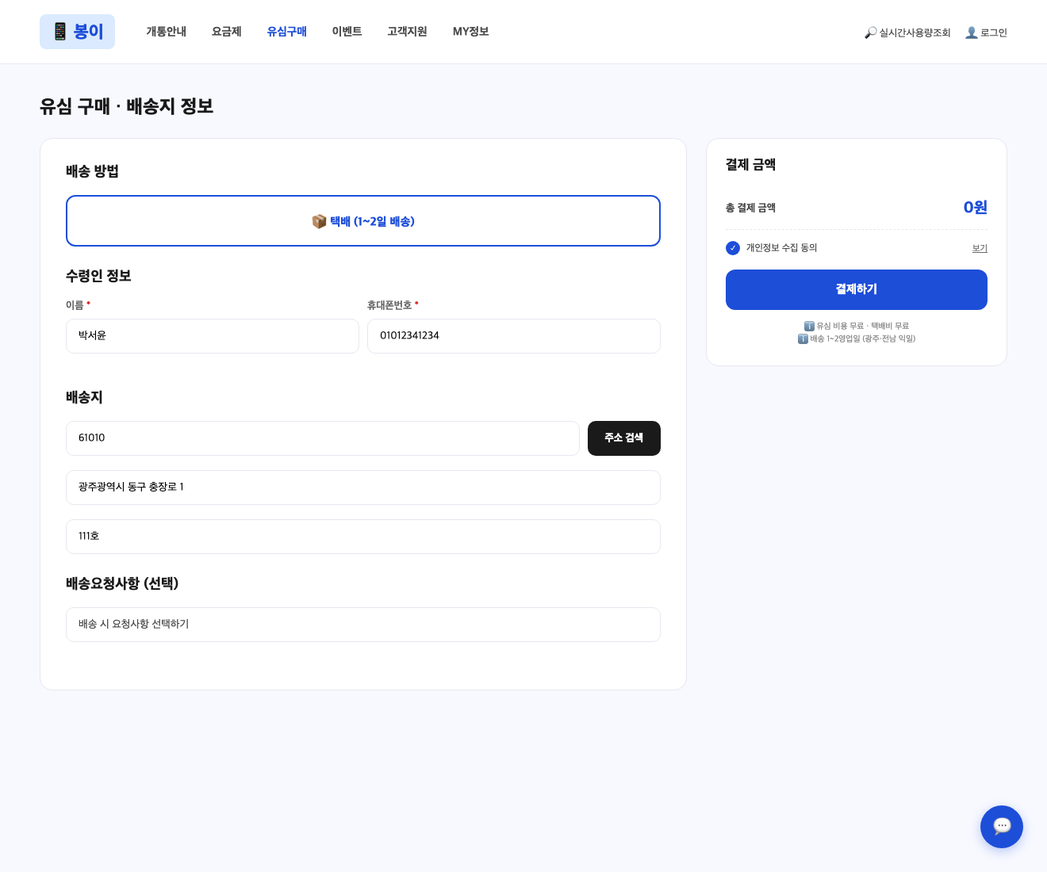
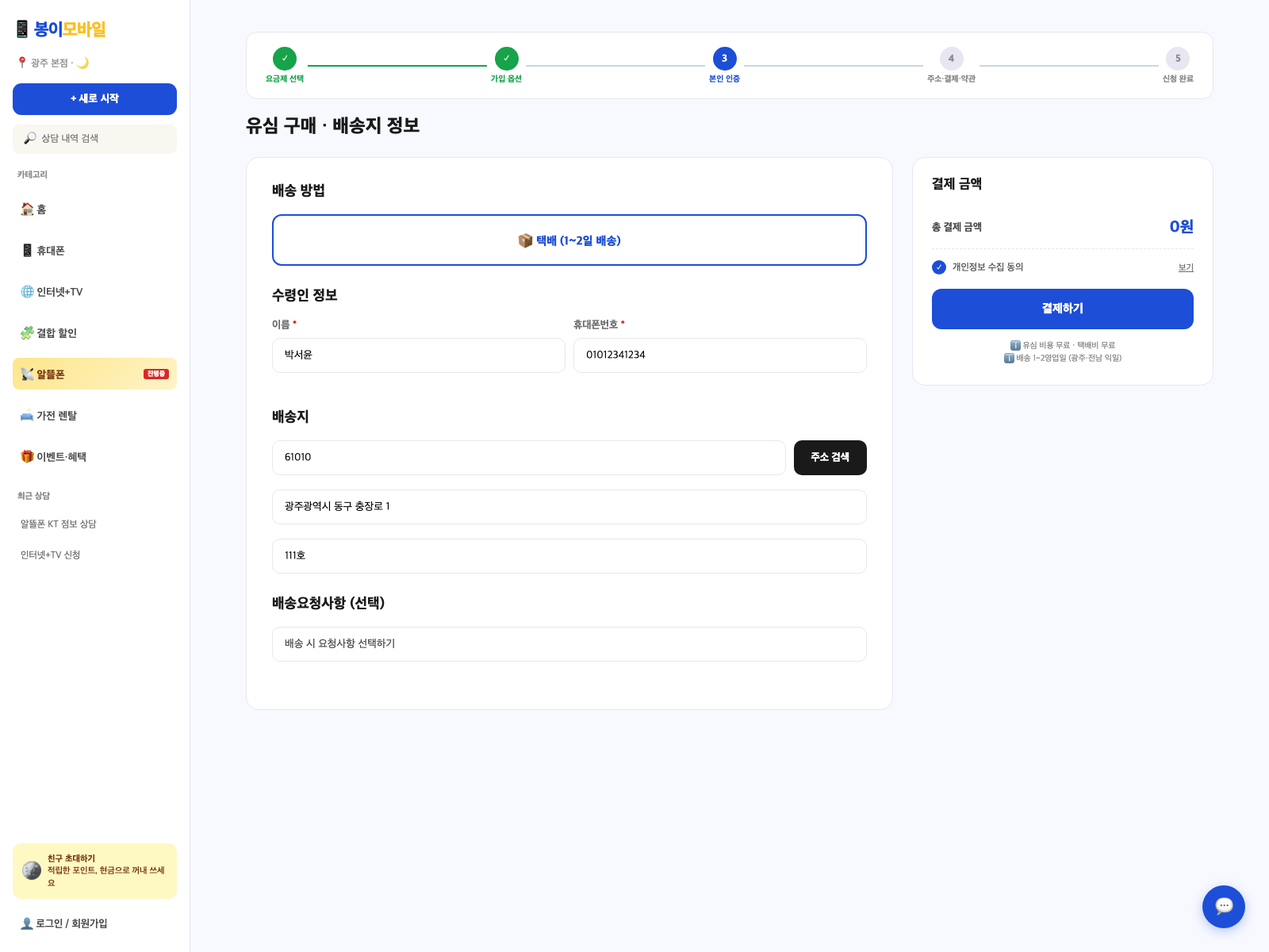
docs(mvno): wireframe 5개 — Allio 좌측 nav + 5-step progress + 신분증 진위확인 필수
사용자: '진행해봐' + '신분증 진위확인은 필수일것같은데'

변경:
- 5개 wireframe 모두 좌측 240px Allio 카테고리 nav 사이드바 추가
  (휴대폰·인터넷+TV·결합 할인·알뜰폰[NEW]·가전 렌탈·이벤트)
  + + 새로 시작 버튼 + 검색 + 최근 상담 + 친구 초대 + 로그인
- 5개 wireframe 모두 상단 5-step progress bar (요금제→가입 옵션→본인 인증→주소·결제·약관→신청 완료)
  - 각 step별 active/done/wait 색상 구분 (파랑/녹색/회색)
- wf-customer-04 (본인 인증) 신분증 진위확인 필드 추가
  - 신분증 종류 select (주민등록증·운전면허증·외국인등록증)
  - 발급일자 input
  - 행안부 진위 조회 (실시간) 안내

골격: Allio (좌측 nav + progress) · 세부 입력: 아정당 (chip·휴대폰 SMS) · 신분증 진위: 모빙 패턴

diff --git a/docs/handoff/mvno-2026-06-06/wf-customer-04-complete.html b/docs/handoff/mvno-2026-06-06/wf-customer-04-complete.html
@@ -3,7 +3,7 @@
 <link href="https://fonts.googleapis.com/css2?family=Pretendard:wght@400;500;600;700;800;900&display=swap" rel="stylesheet">
 <style>
 *{box-sizing:border-box;margin:0;padding:0}
-body{font-family:'Pretendard',sans-serif;background:#f8f9ff;color:#1a1a1a;min-height:100vh}
+body{font-family:'Pretendard',sans-serif;background:#f8f9ff;color:#1a1a1a;min-height:100vh;padding-left:240px}
 .header{background:#fff;border-bottom:1px solid #e8e6f0;padding:18px 0}
 .header-inner{max-width:1280px;margin:0 auto;padding:0 30px;display:flex;align-items:center;gap:40px}
 .logo{font-size:22px;font-weight:900;color:#1d4ed8;background:#dbeafe;padding:7px 14px;border-radius:8px}
@@ -56,25 +56,33 @@ h1{font-size:24px;font-weight:900;margin-bottom:24px}
 .progress-list .pl-row.wait{color:#8a8a8a}
 .float-chat{position:fixed;right:30px;bottom:30px;width:54px;height:54px;background:#1d4ed8;border-radius:50%;display:flex;align-items:center;justify-content:center;font-size:22px;cursor:pointer;color:#fff;box-shadow:0 4px 14px rgba(29,78,216,.3)}
 </style></head><body>
-<div class="header">
-  <div class="header-inner">
-    <div class="logo">📱 봉이</div>
-    <div class="menu">
-      <a>개통안내</a>
-      <a class="active">요금제</a>
-      <a>유심구매</a>
-      <a>이벤트</a>
-      <a>고객지원</a>
-      <a>MY정보</a>
-    </div>
-    <div class="header-right">
-      <a>🔎 실시간사용량조회</a>
-      <a>👤 로그인</a>
-    </div>
+<aside class="nav-aside" style="position:fixed;left:0;top:0;width:240px;height:100vh;background:#fff;border-right:1px solid #e8e6f0;padding:18px 16px;display:flex;flex-direction:column;gap:12px;z-index:100;overflow-y:auto;font-family:'Pretendard',sans-serif">
+  <div style="font-size:22px;font-weight:900;color:#1d4ed8;letter-spacing:-1px;padding:4px 0">📱 봉이<span style="color:#fbbf24">모바일</span></div>
+  <div style="font-size:12.5px;color:#8a8a8a;padding:0 4px;margin-bottom:4px">📍 광주 본점 · 🌙</div>
+  <button style="background:#1d4ed8;color:#fff;border:none;padding:12px;border-radius:11px;font-size:13.5px;font-weight:800;cursor:pointer;font-family:inherit">+ 새로 시작</button>
+  <input placeholder="🔎  상담 내역 검색" style="background:#f8f7f0;border:none;padding:11px 14px;border-radius:9px;font-size:12.5px;color:#8a8a8a;font-family:inherit">
+  <div style="font-size:11px;font-weight:700;color:#8a8a8a;margin:8px 0 4px;padding:0 6px;text-transform:uppercase">카테고리</div>
+  <a style="display:flex;align-items:center;gap:10px;padding:9px 10px;border-radius:8px;font-size:13.5px;color:#4a4a4a;font-weight:600;text-decoration:none;cursor:pointer">🏠  홈</a>
+  <a style="display:flex;align-items:center;gap:10px;padding:9px 10px;border-radius:8px;font-size:13.5px;color:#4a4a4a;font-weight:600;text-decoration:none;cursor:pointer">📱  휴대폰</a>
+  <a style="display:flex;align-items:center;gap:10px;padding:9px 10px;border-radius:8px;font-size:13.5px;color:#4a4a4a;font-weight:600;text-decoration:none;cursor:pointer">🌐  인터넷+TV</a>
+  <a style="display:flex;align-items:center;gap:10px;padding:9px 10px;border-radius:8px;font-size:13.5px;color:#4a4a4a;font-weight:600;text-decoration:none;cursor:pointer">🧩  결합 할인</a>
+  <a style="display:flex;align-items:center;gap:10px;padding:9px 10px;border-radius:8px;font-size:13.5px;font-weight:800;text-decoration:none;cursor:pointer;background:linear-gradient(135deg,#fde68a,#fef3c7);color:#78350f">📡  알뜰폰 <span style="background:#dc2626;color:#fff;font-size:8.5px;padding:1px 5px;border-radius:3px;font-weight:800;margin-left:auto">진행중</span></a>
+  <a style="display:flex;align-items:center;gap:10px;padding:9px 10px;border-radius:8px;font-size:13.5px;color:#4a4a4a;font-weight:600;text-decoration:none;cursor:pointer">🛋  가전 렌탈</a>
+  <a style="display:flex;align-items:center;gap:10px;padding:9px 10px;border-radius:8px;font-size:13.5px;color:#4a4a4a;font-weight:600;text-decoration:none;cursor:pointer">🎁  이벤트·혜택</a>
+  <div style="font-size:11px;font-weight:700;color:#8a8a8a;margin:12px 0 4px;padding:0 6px;text-transform:uppercase">최근 상담</div>
+  <div style="font-size:12px;color:#6a6a6a;padding:6px 10px;border-radius:6px">알뜰폰 KT 점보 상담</div>
+  <div style="font-size:12px;color:#6a6a6a;padding:6px 10px;border-radius:6px">인터넷+TV 신청</div>
+  <div style="margin-top:auto;background:#fef9c3;border-radius:10px;padding:12px;display:flex;gap:8px;align-items:center;cursor:pointer">
+    <div style="font-size:24px">🪙</div>
+    <div style="font-size:11px;font-weight:600;color:#78350f;line-height:1.4"><b style="color:#78350f">친구 초대하기</b><br>적립한 포인트, 현금으로 꺼내 쓰세요</div>
   </div>
-</div>
+  <div style="display:flex;align-items:center;gap:8px;padding:8px 10px;font-size:13px;color:#4a4a4a;font-weight:600;cursor:pointer">👤  로그인 / 회원가입</div>
+</aside>
+
+
 
 <div class="wrap">
+  <div style="display:flex;align-items:center;justify-content:space-between;padding:18px 24px;background:#fff;border:1.5px solid #e8e6f0;border-radius:14px;margin-bottom:20px;font-family:'Pretendard',sans-serif"><div style="display:flex;flex-direction:column;align-items:center;gap:5px"><div style="width:30px;height:30px;border-radius:50%;background:#16a34a;color:#fff;display:flex;align-items:center;justify-content:center;font-size:12.5px;font-weight:900">✓</div><div style="font-size:10.5px;color:#16a34a;font-weight:700;text-align:center;white-space:nowrap">요금제 선택</div></div><div style="flex:1;height:2px;background:#16a34a;margin:0 5px"></div><div style="display:flex;flex-direction:column;align-items:center;gap:5px"><div style="width:30px;height:30px;border-radius:50%;background:#16a34a;color:#fff;display:flex;align-items:center;justify-content:center;font-size:12.5px;font-weight:900">✓</div><div style="font-size:10.5px;color:#16a34a;font-weight:700;text-align:center;white-space:nowrap">가입 옵션</div></div><div style="flex:1;height:2px;background:#16a34a;margin:0 5px"></div><div style="display:flex;flex-direction:column;align-items:center;gap:5px"><div style="width:30px;height:30px;border-radius:50%;background:#16a34a;color:#fff;display:flex;align-items:center;justify-content:center;font-size:12.5px;font-weight:900">✓</div><div style="font-size:10.5px;color:#16a34a;font-weight:700;text-align:center;white-space:nowrap">본인 인증</div></div><div style="flex:1;height:2px;background:#cbd5e1;margin:0 5px"></div><div style="display:flex;flex-direction:column;align-items:center;gap:5px"><div style="width:30px;height:30px;border-radius:50%;background:#1d4ed8;color:#fff;display:flex;align-items:center;justify-content:center;font-size:12.5px;font-weight:900">4</div><div style="font-size:10.5px;color:#1d4ed8;font-weight:700;text-align:center;white-space:nowrap">주소·결제·약관</div></div><div style="flex:1;height:2px;background:#cbd5e1;margin:0 5px"></div><div style="display:flex;flex-direction:column;align-items:center;gap:5px"><div style="width:30px;height:30px;border-radius:50%;background:#e8e6f0;color:#8a8a8a;display:flex;align-items:center;justify-content:center;font-size:12.5px;font-weight:900">5</div><div style="font-size:10.5px;color:#8a8a8a;font-weight:700;text-align:center;white-space:nowrap">신청 완료</div></div></div>
   <h1>본인 인증</h1>
 
   <div class="layout">
@@ -100,6 +108,15 @@ h1{font-size:24px;font-weight:900;margin-bottom:24px}
           <div class="dash">−</div>
           <input class="inp" placeholder="●●●●●●●" value="*******" type="password">
         </div>
+      </div>
+
+      <div class="field-row">
+        <div class="lbl">신분증 진위확인 <span class="req">*</span></div>
+        <div style="display:grid;grid-template-columns:1fr 1fr;gap:10px">
+          <select class="inp" style="appearance:none"><option>주민등록증</option><option>운전면허증</option><option>외국인등록증</option></select>
+          <input class="inp" placeholder="발급일자 (YYYY-MM-DD)" value="2020-03-15">
+        </div>
+        <div class="help">⚠ 미성년자 가입 시 법정대리인 신분증 입력 · 행안부 진위 조회 (실시간)</div>
       </div>
 
       <div class="field-row">

diff --git a/docs/handoff/mvno-2026-06-06/wf-customer-03-signup-step.html b/docs/handoff/mvno-2026-06-06/wf-customer-03-signup-step.html
@@ -3,7 +3,7 @@
 <link href="https://fonts.googleapis.com/css2?family=Pretendard:wght@400;500;600;700;800;900&display=swap" rel="stylesheet">
 <style>
 *{box-sizing:border-box;margin:0;padding:0}
-body{font-family:'Pretendard',sans-serif;background:#f8f9ff;color:#1a1a1a;min-height:100vh}
+body{font-family:'Pretendard',sans-serif;background:#f8f9ff;color:#1a1a1a;min-height:100vh;padding-left:240px}
 .header{background:#fff;border-bottom:1px solid #e8e6f0;padding:18px 0}
 .header-inner{max-width:1280px;margin:0 auto;padding:0 30px;display:flex;align-items:center;gap:40px}
 .logo{font-size:22px;font-weight:900;color:#1d4ed8;background:#dbeafe;padding:7px 14px;border-radius:8px}
@@ -42,25 +42,33 @@ h1{font-size:24px;font-weight:900;margin-bottom:24px}
 .cta-pay{background:#1d4ed8;color:#fff;border:none;padding:16px;border-radius:12px;font-size:15px;font-weight:800;cursor:pointer;font-family:inherit;width:100%}
 .float-chat{position:fixed;right:30px;bottom:30px;width:54px;height:54px;background:#1d4ed8;border-radius:50%;display:flex;align-items:center;justify-content:center;font-size:22px;cursor:pointer;color:#fff;box-shadow:0 4px 14px rgba(29,78,216,.3)}
 </style></head><body>
-<div class="header">
-  <div class="header-inner">
-    <div class="logo">📱 봉이</div>
-    <div class="menu">
-      <a>개통안내</a>
-      <a>요금제</a>
-      <a class="active">유심구매</a>
-      <a>이벤트</a>
-      <a>고객지원</a>
-      <a>MY정보</a>
-    </div>
-    <div class="header-right">
-      <a>🔎 실시간사용량조회</a>
-      <a>👤 로그인</a>
-    </div>
+<aside class="nav-aside" style="position:fixed;left:0;top:0;width:240px;height:100vh;background:#fff;border-right:1px solid #e8e6f0;padding:18px 16px;display:flex;flex-direction:column;gap:12px;z-index:100;overflow-y:auto;font-family:'Pretendard',sans-serif">
+  <div style="font-size:22px;font-weight:900;color:#1d4ed8;letter-spacing:-1px;padding:4px 0">📱 봉이<span style="color:#fbbf24">모바일</span></div>
+  <div style="font-size:12.5px;color:#8a8a8a;padding:0 4px;margin-bottom:4px">📍 광주 본점 · 🌙</div>
+  <button style="background:#1d4ed8;color:#fff;border:none;padding:12px;border-radius:11px;font-size:13.5px;font-weight:800;cursor:pointer;font-family:inherit">+ 새로 시작</button>
+  <input placeholder="🔎  상담 내역 검색" style="background:#f8f7f0;border:none;padding:11px 14px;border-radius:9px;font-size:12.5px;color:#8a8a8a;font-family:inherit">
+  <div style="font-size:11px;font-weight:700;color:#8a8a8a;margin:8px 0 4px;padding:0 6px;text-transform:uppercase">카테고리</div>
+  <a style="display:flex;align-items:center;gap:10px;padding:9px 10px;border-radius:8px;font-size:13.5px;color:#4a4a4a;font-weight:600;text-decoration:none;cursor:pointer">🏠  홈</a>
+  <a style="display:flex;align-items:center;gap:10px;padding:9px 10px;border-radius:8px;font-size:13.5px;color:#4a4a4a;font-weight:600;text-decoration:none;cursor:pointer">📱  휴대폰</a>
+  <a style="display:flex;align-items:center;gap:10px;padding:9px 10px;border-radius:8px;font-size:13.5px;color:#4a4a4a;font-weight:600;text-decoration:none;cursor:pointer">🌐  인터넷+TV</a>
+  <a style="display:flex;align-items:center;gap:10px;padding:9px 10px;border-radius:8px;font-size:13.5px;color:#4a4a4a;font-weight:600;text-decoration:none;cursor:pointer">🧩  결합 할인</a>
+  <a style="display:flex;align-items:center;gap:10px;padding:9px 10px;border-radius:8px;font-size:13.5px;font-weight:800;text-decoration:none;cursor:pointer;background:linear-gradient(135deg,#fde68a,#fef3c7);color:#78350f">📡  알뜰폰 <span style="background:#dc2626;color:#fff;font-size:8.5px;padding:1px 5px;border-radius:3px;font-weight:800;margin-left:auto">진행중</span></a>
+  <a style="display:flex;align-items:center;gap:10px;padding:9px 10px;border-radius:8px;font-size:13.5px;color:#4a4a4a;font-weight:600;text-decoration:none;cursor:pointer">🛋  가전 렌탈</a>
+  <a style="display:flex;align-items:center;gap:10px;padding:9px 10px;border-radius:8px;font-size:13.5px;color:#4a4a4a;font-weight:600;text-decoration:none;cursor:pointer">🎁  이벤트·혜택</a>
+  <div style="font-size:11px;font-weight:700;color:#8a8a8a;margin:12px 0 4px;padding:0 6px;text-transform:uppercase">최근 상담</div>
+  <div style="font-size:12px;color:#6a6a6a;padding:6px 10px;border-radius:6px">알뜰폰 KT 점보 상담</div>
+  <div style="font-size:12px;color:#6a6a6a;padding:6px 10px;border-radius:6px">인터넷+TV 신청</div>
+  <div style="margin-top:auto;background:#fef9c3;border-radius:10px;padding:12px;display:flex;gap:8px;align-items:center;cursor:pointer">
+    <div style="font-size:24px">🪙</div>
+    <div style="font-size:11px;font-weight:600;color:#78350f;line-height:1.4"><b style="color:#78350f">친구 초대하기</b><br>적립한 포인트, 현금으로 꺼내 쓰세요</div>
   </div>
-</div>
+  <div style="display:flex;align-items:center;gap:8px;padding:8px 10px;font-size:13px;color:#4a4a4a;font-weight:600;cursor:pointer">👤  로그인 / 회원가입</div>
+</aside>
+
+
 
 <div class="wrap">
+  <div style="display:flex;align-items:center;justify-content:space-between;padding:18px 24px;background:#fff;border:1.5px solid #e8e6f0;border-radius:14px;margin-bottom:20px;font-family:'Pretendard',sans-serif"><div style="display:flex;flex-direction:column;align-items:center;gap:5px"><div style="width:30px;height:30px;border-radius:50%;background:#16a34a;color:#fff;display:flex;align-items:center;justify-content:center;font-size:12.5px;font-weight:900">✓</div><div style="font-size:10.5px;color:#16a34a;font-weight:700;text-align:center;white-space:nowrap">요금제 선택</div></div><div style="flex:1;height:2px;background:#16a34a;margin:0 5px"></div><div style="display:flex;flex-direction:column;align-items:center;gap:5px"><div style="width:30px;height:30px;border-radius:50%;background:#16a34a;color:#fff;display:flex;align-items:center;justify-content:center;font-size:12.5px;font-weight:900">✓</div><div style="font-size:10.5px;color:#16a34a;font-weight:700;text-align:center;white-space:nowrap">가입 옵션</div></div><div style="flex:1;height:2px;background:#cbd5e1;margin:0 5px"></div><div style="display:flex;flex-direction:column;align-items:center;gap:5px"><div style="width:30px;height:30px;border-radius:50%;background:#1d4ed8;color:#fff;display:flex;align-items:center;justify-content:center;font-size:12.5px;font-weight:900">3</div><div style="font-size:10.5px;color:#1d4ed8;font-weight:700;text-align:center;white-space:nowrap">본인 인증</div></div><div style="flex:1;height:2px;background:#cbd5e1;margin:0 5px"></div><div style="display:flex;flex-direction:column;align-items:center;gap:5px"><div style="width:30px;height:30px;border-radius:50%;background:#e8e6f0;color:#8a8a8a;display:flex;align-items:center;justify-content:center;font-size:12.5px;font-weight:900">4</div><div style="font-size:10.5px;color:#8a8a8a;font-weight:700;text-align:center;white-space:nowrap">주소·결제·약관</div></div><div style="flex:1;height:2px;background:#cbd5e1;margin:0 5px"></div><div style="display:flex;flex-direction:column;align-items:center;gap:5px"><div style="width:30px;height:30px;border-radius:50%;background:#e8e6f0;color:#8a8a8a;display:flex;align-items:center;justify-content:center;font-size:12.5px;font-weight:900">5</div><div style="font-size:10.5px;color:#8a8a8a;font-weight:700;text-align:center;white-space:nowrap">신청 완료</div></div></div>
   <h1>유심 구매 · 배송지 정보</h1>
 
   <div class="layout">

diff --git a/docs/handoff/mvno-2026-06-06/wf-customer-01-plan-list.html b/docs/handoff/mvno-2026-06-06/wf-customer-01-plan-list.html
@@ -3,7 +3,7 @@
 <link href="https://fonts.googleapis.com/css2?family=Pretendard:wght@400;500;600;700;800;900&display=swap" rel="stylesheet">
 <style>
 *{box-sizing:border-box;margin:0;padding:0}
-body{font-family:'Pretendard',sans-serif;background:#f8f9ff;color:#1a1a1a;min-height:100vh}
+body{font-family:'Pretendard',sans-serif;background:#f8f9ff;color:#1a1a1a;min-height:100vh;padding-left:240px}
 .header{background:#fff;border-bottom:1px solid #e8e6f0;padding:18px 0}
 .header-inner{max-width:1280px;margin:0 auto;padding:0 30px;display:flex;align-items:center;gap:40px}
 .logo{font-size:22px;font-weight:900;color:#1d4ed8;background:#dbeafe;padding:7px 14px;border-radius:8px;letter-spacing:-1px}
@@ -49,25 +49,33 @@ h1{font-size:26px;font-weight:900;margin-bottom:6px}
 .price-after{font-size:10.5px;color:#8a8a8a;text-align:right;margin-top:4px}
 .float-chat{position:fixed;right:30px;bottom:30px;width:54px;height:54px;background:#1d4ed8;border-radius:50%;display:flex;align-items:center;justify-content:center;font-size:22px;cursor:pointer;color:#fff;box-shadow:0 4px 14px rgba(29,78,216,.3)}
 </style></head><body>
-<div class="header">
-  <div class="header-inner">
-    <div class="logo">📱 봉이</div>
-    <div class="menu">
-      <a>개통안내</a>
-      <a class="active">요금제</a>
-      <a>유심구매</a>
-      <a>이벤트</a>
-      <a>고객지원</a>
-      <a>MY정보</a>
-    </div>
-    <div class="header-right">
-      <a>🔎 실시간사용량조회</a>
-      <a>👤 로그인</a>
-    </div>
+<aside class="nav-aside" style="position:fixed;left:0;top:0;width:240px;height:100vh;background:#fff;border-right:1px solid #e8e6f0;padding:18px 16px;display:flex;flex-direction:column;gap:12px;z-index:100;overflow-y:auto;font-family:'Pretendard',sans-serif">
+  <div style="font-size:22px;font-weight:900;color:#1d4ed8;letter-spacing:-1px;padding:4px 0">📱 봉이<span style="color:#fbbf24">모바일</span></div>
+  <div style="font-size:12.5px;color:#8a8a8a;padding:0 4px;margin-bottom:4px">📍 광주 본점 · 🌙</div>
+  <button style="background:#1d4ed8;color:#fff;border:none;padding:12px;border-radius:11px;font-size:13.5px;font-weight:800;cursor:pointer;font-family:inherit">+ 새로 시작</button>
+  <input placeholder="🔎  상담 내역 검색" style="background:#f8f7f0;border:none;padding:11px 14px;border-radius:9px;font-size:12.5px;color:#8a8a8a;font-family:inherit">
+  <div style="font-size:11px;font-weight:700;color:#8a8a8a;margin:8px 0 4px;padding:0 6px;text-transform:uppercase">카테고리</div>
+  <a style="display:flex;align-items:center;gap:10px;padding:9px 10px;border-radius:8px;font-size:13.5px;color:#4a4a4a;font-weight:600;text-decoration:none;cursor:pointer">🏠  홈</a>
+  <a style="display:flex;align-items:center;gap:10px;padding:9px 10px;border-radius:8px;font-size:13.5px;color:#4a4a4a;font-weight:600;text-decoration:none;cursor:pointer">📱  휴대폰</a>
+  <a style="display:flex;align-items:center;gap:10px;padding:9px 10px;border-radius:8px;font-size:13.5px;color:#4a4a4a;font-weight:600;text-decoration:none;cursor:pointer">🌐  인터넷+TV</a>
+  <a style="display:flex;align-items:center;gap:10px;padding:9px 10px;border-radius:8px;font-size:13.5px;color:#4a4a4a;font-weight:600;text-decoration:none;cursor:pointer">🧩  결합 할인</a>
+  <a style="display:flex;align-items:center;gap:10px;padding:9px 10px;border-radius:8px;font-size:13.5px;font-weight:800;text-decoration:none;cursor:pointer;background:linear-gradient(135deg,#fde68a,#fef3c7);color:#78350f">📡  알뜰폰 <span style="background:#dc2626;color:#fff;font-size:8.5px;padding:1px 5px;border-radius:3px;font-weight:800;margin-left:auto">NEW</span></a>
+  <a style="display:flex;align-items:center;gap:10px;padding:9px 10px;border-radius:8px;font-size:13.5px;color:#4a4a4a;font-weight:600;text-decoration:none;cursor:pointer">🛋  가전 렌탈</a>
+  <a style="display:flex;align-items:center;gap:10px;padding:9px 10px;border-radius:8px;font-size:13.5px;color:#4a4a4a;font-weight:600;text-decoration:none;cursor:pointer">🎁  이벤트·혜택</a>
+  <div style="font-size:11px;font-weight:700;color:#8a8a8a;margin:12px 0 4px;padding:0 6px;text-transform:uppercase">최근 상담</div>
+  <div style="font-size:12px;color:#6a6a6a;padding:6px 10px;border-radius:6px">알뜰폰 KT 점보 상담</div>
+  <div style="font-size:12px;color:#6a6a6a;padding:6px 10px;border-radius:6px">인터넷+TV 신청</div>
+  <div style="margin-top:auto;background:#fef9c3;border-radius:10px;padding:12px;display:flex;gap:8px;align-items:center;cursor:pointer">
+    <div style="font-size:24px">🪙</div>
+    <div style="font-size:11px;font-weight:600;color:#78350f;line-height:1.4"><b style="color:#78350f">친구 초대하기</b><br>적립한 포인트, 현금으로 꺼내 쓰세요</div>
   </div>
-</div>
+  <div style="display:flex;align-items:center;gap:8px;padding:8px 10px;font-size:13px;color:#4a4a4a;font-weight:600;cursor:pointer">👤  로그인 / 회원가입</div>
+</aside>
+
+
 
 <div class="wrap">
+  <div style="display:flex;align-items:center;justify-content:space-between;padding:18px 24px;background:#fff;border:1.5px solid #e8e6f0;border-radius:14px;margin-bottom:20px;font-family:'Pretendard',sans-serif"><div style="display:flex;flex-direction:column;align-items:center;gap:5px"><div style="width:30px;height:30px;border-radius:50%;background:#1d4ed8;color:#fff;display:flex;align-items:center;justify-content:center;font-size:12.5px;font-weight:900">1</div><div style="font-size:10.5px;color:#1d4ed8;font-weight:700;text-align:center;white-space:nowrap">요금제 선택</div></div><div style="flex:1;height:2px;background:#cbd5e1;margin:0 5px"></div><div style="display:flex;flex-direction:column;align-items:center;gap:5px"><div style="width:30px;height:30px;border-radius:50%;background:#e8e6f0;color:#8a8a8a;display:flex;align-items:center;justify-content:center;font-size:12.5px;font-weight:900">2</div><div style="font-size:10.5px;color:#8a8a8a;font-weight:700;text-align:center;white-space:nowrap">가입 옵션</div></div><div style="flex:1;height:2px;background:#cbd5e1;margin:0 5px"></div><div style="display:flex;flex-direction:column;align-items:center;gap:5px"><div style="width:30px;height:30px;border-radius:50%;background:#e8e6f0;color:#8a8a8a;display:flex;align-items:center;justify-content:center;font-size:12.5px;font-weight:900">3</div><div style="font-size:10.5px;color:#8a8a8a;font-weight:700;text-align:center;white-space:nowrap">본인 인증</div></div><div style="flex:1;height:2px;background:#cbd5e1;margin:0 5px"></div><div style="display:flex;flex-direction:column;align-items:center;gap:5px"><div style="width:30px;height:30px;border-radius:50%;background:#e8e6f0;color:#8a8a8a;display:flex;align-items:center;justify-content:center;font-size:12.5px;font-weight:900">4</div><div style="font-size:10.5px;color:#8a8a8a;font-weight:700;text-align:center;white-space:nowrap">주소·결제·약관</div></div><div style="flex:1;height:2px;background:#cbd5e1;margin:0 5px"></div><div style="display:flex;flex-direction:column;align-items:center;gap:5px"><div style="width:30px;height:30px;border-radius:50%;background:#e8e6f0;color:#8a8a8a;display:flex;align-items:center;justify-content:center;font-size:12.5px;font-weight:900">5</div><div style="font-size:10.5px;color:#8a8a8a;font-weight:700;text-align:center;white-space:nowrap">신청 완료</div></div></div>
   <h1>봉이 알뜰폰 요금제</h1>
   <p class="lead">모빙 단독 제휴 · SK·KT·LG U+ 3망 봉이 전용 요금제 15종</p>
 

diff --git a/docs/handoff/mvno-2026-06-06/wf-customer-05-done.html b/docs/handoff/mvno-2026-06-06/wf-customer-05-done.html
@@ -3,7 +3,7 @@
 <link href="https://fonts.googleapis.com/css2?family=Pretendard:wght@400;500;600;700;800;900&display=swap" rel="stylesheet">
 <style>
 *{box-sizing:border-box;margin:0;padding:0}
-body{font-family:'Pretendard',sans-serif;background:#f8f9ff;color:#1a1a1a;min-height:100vh}
+body{font-family:'Pretendard',sans-serif;background:#f8f9ff;color:#1a1a1a;min-height:100vh;padding-left:240px}
 .header{background:#fff;border-bottom:1px solid #e8e6f0;padding:18px 0}
 .header-inner{max-width:1280px;margin:0 auto;padding:0 30px;display:flex;align-items:center;gap:40px}
 .logo{font-size:22px;font-weight:900;color:#1d4ed8;background:#dbeafe;padding:7px 14px;border-radius:8px}
@@ -54,25 +54,33 @@ body{font-family:'Pretendard',sans-serif;background:#f8f9ff;color:#1a1a1a;min-he
 .btn-mypage{background:#1d4ed8;color:#fff}
 .float-chat{position:fixed;right:30px;bottom:30px;width:54px;height:54px;background:#1d4ed8;border-radius:50%;display:flex;align-items:center;justify-content:center;font-size:22px;cursor:pointer;color:#fff;box-shadow:0 4px 14px rgba(29,78,216,.3)}
 </style></head><body>
-<div class="header">
-  <div class="header-inner">
-    <div class="logo">📱 봉이</div>
-    <div class="menu">
-      <a>개통안내</a>
-      <a>요금제</a>
-      <a>유심구매</a>
-      <a>이벤트</a>
-      <a>고객지원</a>
-      <a class="active">MY정보</a>
-    </div>
-    <div class="header-right">
-      <a>🔎 실시간사용량조회</a>
-      <a>👤 박서윤</a>
-    </div>
+<aside class="nav-aside" style="position:fixed;left:0;top:0;width:240px;height:100vh;background:#fff;border-right:1px solid #e8e6f0;padding:18px 16px;display:flex;flex-direction:column;gap:12px;z-index:100;overflow-y:auto;font-family:'Pretendard',sans-serif">
+  <div style="font-size:22px;font-weight:900;color:#1d4ed8;letter-spacing:-1px;padding:4px 0">📱 봉이<span style="color:#fbbf24">모바일</span></div>
+  <div style="font-size:12.5px;color:#8a8a8a;padding:0 4px;margin-bottom:4px">📍 광주 본점 · 🌙</div>
+  <button style="background:#1d4ed8;color:#fff;border:none;padding:12px;border-radius:11px;font-size:13.5px;font-weight:800;cursor:pointer;font-family:inherit">+ 새로 시작</button>
+  <input placeholder="🔎  상담 내역 검색" style="background:#f8f7f0;border:none;padding:11px 14px;border-radius:9px;font-size:12.5px;color:#8a8a8a;font-family:inherit">
+  <div style="font-size:11px;font-weight:700;color:#8a8a8a;margin:8px 0 4px;padding:0 6px;text-transform:uppercase">카테고리</div>
+  <a style="display:flex;align-items:center;gap:10px;padding:9px 10px;border-radius:8px;font-size:13.5px;color:#4a4a4a;font-weight:600;text-decoration:none;cursor:pointer">🏠  홈</a>
+  <a style="display:flex;align-items:center;gap:10px;padding:9px 10px;border-radius:8px;font-size:13.5px;color:#4a4a4a;font-weight:600;text-decoration:none;cursor:pointer">📱  휴대폰</a>
+  <a style="display:flex;align-items:center;gap:10px;padding:9px 10px;border-radius:8px;font-size:13.5px;color:#4a4a4a;font-weight:600;text-decoration:none;cursor:pointer">🌐  인터넷+TV</a>
+  <a style="display:flex;align-items:center;gap:10px;padding:9px 10px;border-radius:8px;font-size:13.5px;color:#4a4a4a;font-weight:600;text-decoration:none;cursor:pointer">🧩  결합 할인</a>
+  <a style="display:flex;align-items:center;gap:10px;padding:9px 10px;border-radius:8px;font-size:13.5px;font-weight:800;text-decoration:none;cursor:pointer;background:linear-gradient(135deg,#fde68a,#fef3c7);color:#78350f">📡  알뜰폰 <span style="background:#dc2626;color:#fff;font-size:8.5px;padding:1px 5px;border-radius:3px;font-weight:800;margin-left:auto">완료</span></a>
+  <a style="display:flex;align-items:center;gap:10px;padding:9px 10px;border-radius:8px;font-size:13.5px;color:#4a4a4a;font-weight:600;text-decoration:none;cursor:pointer">🛋  가전 렌탈</a>
+  <a style="display:flex;align-items:center;gap:10px;padding:9px 10px;border-radius:8px;font-size:13.5px;color:#4a4a4a;font-weight:600;text-decoration:none;cursor:pointer">🎁  이벤트·혜택</a>
+  <div style="font-size:11px;font-weight:700;color:#8a8a8a;margin:12px 0 4px;padding:0 6px;text-transform:uppercase">최근 상담</div>
+  <div style="font-size:12px;color:#6a6a6a;padding:6px 10px;border-radius:6px">알뜰폰 KT 점보 상담</div>
+  <div style="font-size:12px;color:#6a6a6a;padding:6px 10px;border-radius:6px">인터넷+TV 신청</div>
+  <div style="margin-top:auto;background:#fef9c3;border-radius:10px;padding:12px;display:flex;gap:8px;align-items:center;cursor:pointer">
+    <div style="font-size:24px">🪙</div>
+    <div style="font-size:11px;font-weight:600;color:#78350f;line-height:1.4"><b style="color:#78350f">친구 초대하기</b><br>적립한 포인트, 현금으로 꺼내 쓰세요</div>
   </div>
-</div>
+  <div style="display:flex;align-items:center;gap:8px;padding:8px 10px;font-size:13px;color:#4a4a4a;font-weight:600;cursor:pointer">👤  로그인 / 회원가입</div>
+</aside>
+
+
 
 <div class="wrap">
+  <div style="display:flex;align-items:center;justify-content:space-between;padding:18px 24px;background:#fff;border:1.5px solid #e8e6f0;border-radius:14px;margin-bottom:20px;font-family:'Pretendard',sans-serif"><div style="display:flex;flex-direction:column;align-items:center;gap:5px"><div style="width:30px;height:30px;border-radius:50%;background:#16a34a;color:#fff;display:flex;align-items:center;justify-content:center;font-size:12.5px;font-weight:900">✓</div><div style="font-size:10.5px;color:#16a34a;font-weight:700;text-align:center;white-space:nowrap">요금제 선택</div></div><div style="flex:1;height:2px;background:#16a34a;margin:0 5px"></div><div style="display:flex;flex-direction:column;align-items:center;gap:5px"><div style="width:30px;height:30px;border-radius:50%;background:#16a34a;color:#fff;display:flex;align-items:center;justify-content:center;font-size:12.5px;font-weight:900">✓</div><div style="font-size:10.5px;color:#16a34a;font-weight:700;text-align:center;white-space:nowrap">가입 옵션</div></div><div style="flex:1;height:2px;background:#16a34a;margin:0 5px"></div><div style="display:flex;flex-direction:column;align-items:center;gap:5px"><div style="width:30px;height:30px;border-radius:50%;background:#16a34a;color:#fff;display:flex;align-items:center;justify-content:center;font-size:12.5px;font-weight:900">✓</div><div style="font-size:10.5px;color:#16a34a;font-weight:700;text-align:center;white-space:nowrap">본인 인증</div></div><div style="flex:1;height:2px;background:#16a34a;margin:0 5px"></div><div style="display:flex;flex-direction:column;align-items:center;gap:5px"><div style="width:30px;height:30px;border-radius:50%;background:#16a34a;color:#fff;display:flex;align-items:center;justify-content:center;font-size:12.5px;font-weight:900">✓</div><div style="font-size:10.5px;color:#16a34a;font-weight:700;text-align:center;white-space:nowrap">주소·결제·약관</div></div><div style="flex:1;height:2px;background:#cbd5e1;margin:0 5px"></div><div style="display:flex;flex-direction:column;align-items:center;gap:5px"><div style="width:30px;height:30px;border-radius:50%;background:#1d4ed8;color:#fff;display:flex;align-items:center;justify-content:center;font-size:12.5px;font-weight:900">5</div><div style="font-size:10.5px;color:#1d4ed8;font-weight:700;text-align:center;white-space:nowrap">신청 완료</div></div></div>
   <div class="complete-hero">
     <div class="ic">✓</div>
     <h1>가입 신청이 접수되었습니다</h1>

diff --git a/docs/handoff/mvno-2026-06-06/wf-customer-02-eid-check.html b/docs/handoff/mvno-2026-06-06/wf-customer-02-eid-check.html
@@ -3,7 +3,7 @@
 <link href="https://fonts.googleapis.com/css2?family=Pretendard:wght@400;500;600;700;800;900&display=swap" rel="stylesheet">
 <style>
 *{box-sizing:border-box;margin:0;padding:0}
-body{font-family:'Pretendard',sans-serif;background:#f8f9ff;color:#1a1a1a;min-height:100vh}
+body{font-family:'Pretendard',sans-serif;background:#f8f9ff;color:#1a1a1a;min-height:100vh;padding-left:240px}
 .header{background:#fff;border-bottom:1px solid #e8e6f0;padding:18px 0}
 .header-inner{max-width:1280px;margin:0 auto;padding:0 30px;display:flex;align-items:center;gap:40px}
 .logo{font-size:22px;font-weight:900;color:#1d4ed8;background:#dbeafe;padding:7px 14px;border-radius:8px;letter-spacing:-1px}
@@ -49,25 +49,33 @@ h1{font-size:24px;font-weight:900;margin-bottom:24px}
 .cta-apply:hover{background:#1e40af}
 .float-chat{position:fixed;right:30px;bottom:30px;width:54px;height:54px;background:#1d4ed8;border-radius:50%;display:flex;align-items:center;justify-content:center;font-size:22px;cursor:pointer;color:#fff;box-shadow:0 4px 14px rgba(29,78,216,.3)}
 </style></head><body>
-<div class="header">
-  <div class="header-inner">
-    <div class="logo">📱 봉이</div>
-    <div class="menu">
-      <a>개통안내</a>
-      <a class="active">요금제</a>
-      <a>유심구매</a>
-      <a>이벤트</a>
-      <a>고객지원</a>
-      <a>MY정보</a>
-    </div>
-    <div class="header-right">
-      <a>🔎 실시간사용량조회</a>
-      <a>👤 로그인</a>
-    </div>
+<aside class="nav-aside" style="position:fixed;left:0;top:0;width:240px;height:100vh;background:#fff;border-right:1px solid #e8e6f0;padding:18px 16px;display:flex;flex-direction:column;gap:12px;z-index:100;overflow-y:auto;font-family:'Pretendard',sans-serif">
+  <div style="font-size:22px;font-weight:900;color:#1d4ed8;letter-spacing:-1px;padding:4px 0">📱 봉이<span style="color:#fbbf24">모바일</span></div>
+  <div style="font-size:12.5px;color:#8a8a8a;padding:0 4px;margin-bottom:4px">📍 광주 본점 · 🌙</div>
+  <button style="background:#1d4ed8;color:#fff;border:none;padding:12px;border-radius:11px;font-size:13.5px;font-weight:800;cursor:pointer;font-family:inherit">+ 새로 시작</button>
+  <input placeholder="🔎  상담 내역 검색" style="background:#f8f7f0;border:none;padding:11px 14px;border-radius:9px;font-size:12.5px;color:#8a8a8a;font-family:inherit">
+  <div style="font-size:11px;font-weight:700;color:#8a8a8a;margin:8px 0 4px;padding:0 6px;text-transform:uppercase">카테고리</div>
+  <a style="display:flex;align-items:center;gap:10px;padding:9px 10px;border-radius:8px;font-size:13.5px;color:#4a4a4a;font-weight:600;text-decoration:none;cursor:pointer">🏠  홈</a>
+  <a style="display:flex;align-items:center;gap:10px;padding:9px 10px;border-radius:8px;font-size:13.5px;color:#4a4a4a;font-weight:600;text-decoration:none;cursor:pointer">📱  휴대폰</a>
+  <a style="display:flex;align-items:center;gap:10px;padding:9px 10px;border-radius:8px;font-size:13.5px;color:#4a4a4a;font-weight:600;text-decoration:none;cursor:pointer">🌐  인터넷+TV</a>
+  <a style="display:flex;align-items:center;gap:10px;padding:9px 10px;border-radius:8px;font-size:13.5px;color:#4a4a4a;font-weight:600;text-decoration:none;cursor:pointer">🧩  결합 할인</a>
+  <a style="display:flex;align-items:center;gap:10px;padding:9px 10px;border-radius:8px;font-size:13.5px;font-weight:800;text-decoration:none;cursor:pointer;background:linear-gradient(135deg,#fde68a,#fef3c7);color:#78350f">📡  알뜰폰 <span style="background:#dc2626;color:#fff;font-size:8.5px;padding:1px 5px;border-radius:3px;font-weight:800;margin-left:auto">진행중</span></a>
+  <a style="display:flex;align-items:center;gap:10px;padding:9px 10px;border-radius:8px;font-size:13.5px;color:#4a4a4a;font-weight:600;text-decoration:none;cursor:pointer">🛋  가전 렌탈</a>
+  <a style="display:flex;align-items:center;gap:10px;padding:9px 10px;border-radius:8px;font-size:13.5px;color:#4a4a4a;font-weight:600;text-decoration:none;cursor:pointer">🎁  이벤트·혜택</a>
+  <div style="font-size:11px;font-weight:700;color:#8a8a8a;margin:12px 0 4px;padding:0 6px;text-transform:uppercase">최근 상담</div>
+  <div style="font-size:12px;color:#6a6a6a;padding:6px 10px;border-radius:6px">알뜰폰 KT 점보 상담</div>
+  <div style="font-size:12px;color:#6a6a6a;padding:6px 10px;border-radius:6px">인터넷+TV 신청</div>
+  <div style="margin-top:auto;background:#fef9c3;border-radius:10px;padding:12px;display:flex;gap:8px;align-items:center;cursor:pointer">
+    <div style="font-size:24px">🪙</div>
+    <div style="font-size:11px;font-weight:600;color:#78350f;line-height:1.4"><b style="color:#78350f">친구 초대하기</b><br>적립한 포인트, 현금으로 꺼내 쓰세요</div>
   </div>
-</div>
+  <div style="display:flex;align-items:center;gap:8px;padding:8px 10px;font-size:13px;color:#4a4a4a;font-weight:600;cursor:pointer">👤  로그인 / 회원가입</div>
+</aside>
+
+
 
 <div class="wrap">
+  <div style="display:flex;align-items:center;justify-content:space-between;padding:18px 24px;background:#fff;border:1.5px solid #e8e6f0;border-radius:14px;margin-bottom:20px;font-family:'Pretendard',sans-serif"><div style="display:flex;flex-direction:column;align-items:center;gap:5px"><div style="width:30px;height:30px;border-radius:50%;background:#16a34a;color:#fff;display:flex;align-items:center;justify-content:center;font-size:12.5px;font-weight:900">✓</div><div style="font-size:10.5px;color:#16a34a;font-weight:700;text-align:center;white-space:nowrap">요금제 선택</div></div><div style="flex:1;height:2px;background:#cbd5e1;margin:0 5px"></div><div style="display:flex;flex-direction:column;align-items:center;gap:5px"><div style="width:30px;height:30px;border-radius:50%;background:#1d4ed8;color:#fff;display:flex;align-items:center;justify-content:center;font-size:12.5px;font-weight:900">2</div><div style="font-size:10.5px;color:#1d4ed8;font-weight:700;text-align:center;white-space:nowrap">가입 옵션</div></div><div style="flex:1;height:2px;background:#cbd5e1;margin:0 5px"></div><div style="display:flex;flex-direction:column;align-items:center;gap:5px"><div style="width:30px;height:30px;border-radius:50%;background:#e8e6f0;color:#8a8a8a;display:flex;align-items:center;justify-content:center;font-size:12.5px;font-weight:900">3</div><div style="font-size:10.5px;color:#8a8a8a;font-weight:700;text-align:center;white-space:nowrap">본인 인증</div></div><div style="flex:1;height:2px;background:#cbd5e1;margin:0 5px"></div><div style="display:flex;flex-direction:column;align-items:center;gap:5px"><div style="width:30px;height:30px;border-radius:50%;background:#e8e6f0;color:#8a8a8a;display:flex;align-items:center;justify-content:center;font-size:12.5px;font-weight:900">4</div><div style="font-size:10.5px;color:#8a8a8a;font-weight:700;text-align:center;white-space:nowrap">주소·결제·약관</div></div><div style="flex:1;height:2px;background:#cbd5e1;margin:0 5px"></div><div style="display:flex;flex-direction:column;align-items:center;gap:5px"><div style="width:30px;height:30px;border-radius:50%;background:#e8e6f0;color:#8a8a8a;display:flex;align-items:center;justify-content:center;font-size:12.5px;font-weight:900">5</div><div style="font-size:10.5px;color:#8a8a8a;font-weight:700;text-align:center;white-space:nowrap">신청 완료</div></div></div>
   <h1>요금제 상세보기</h1>
 
   <div class="layout">
